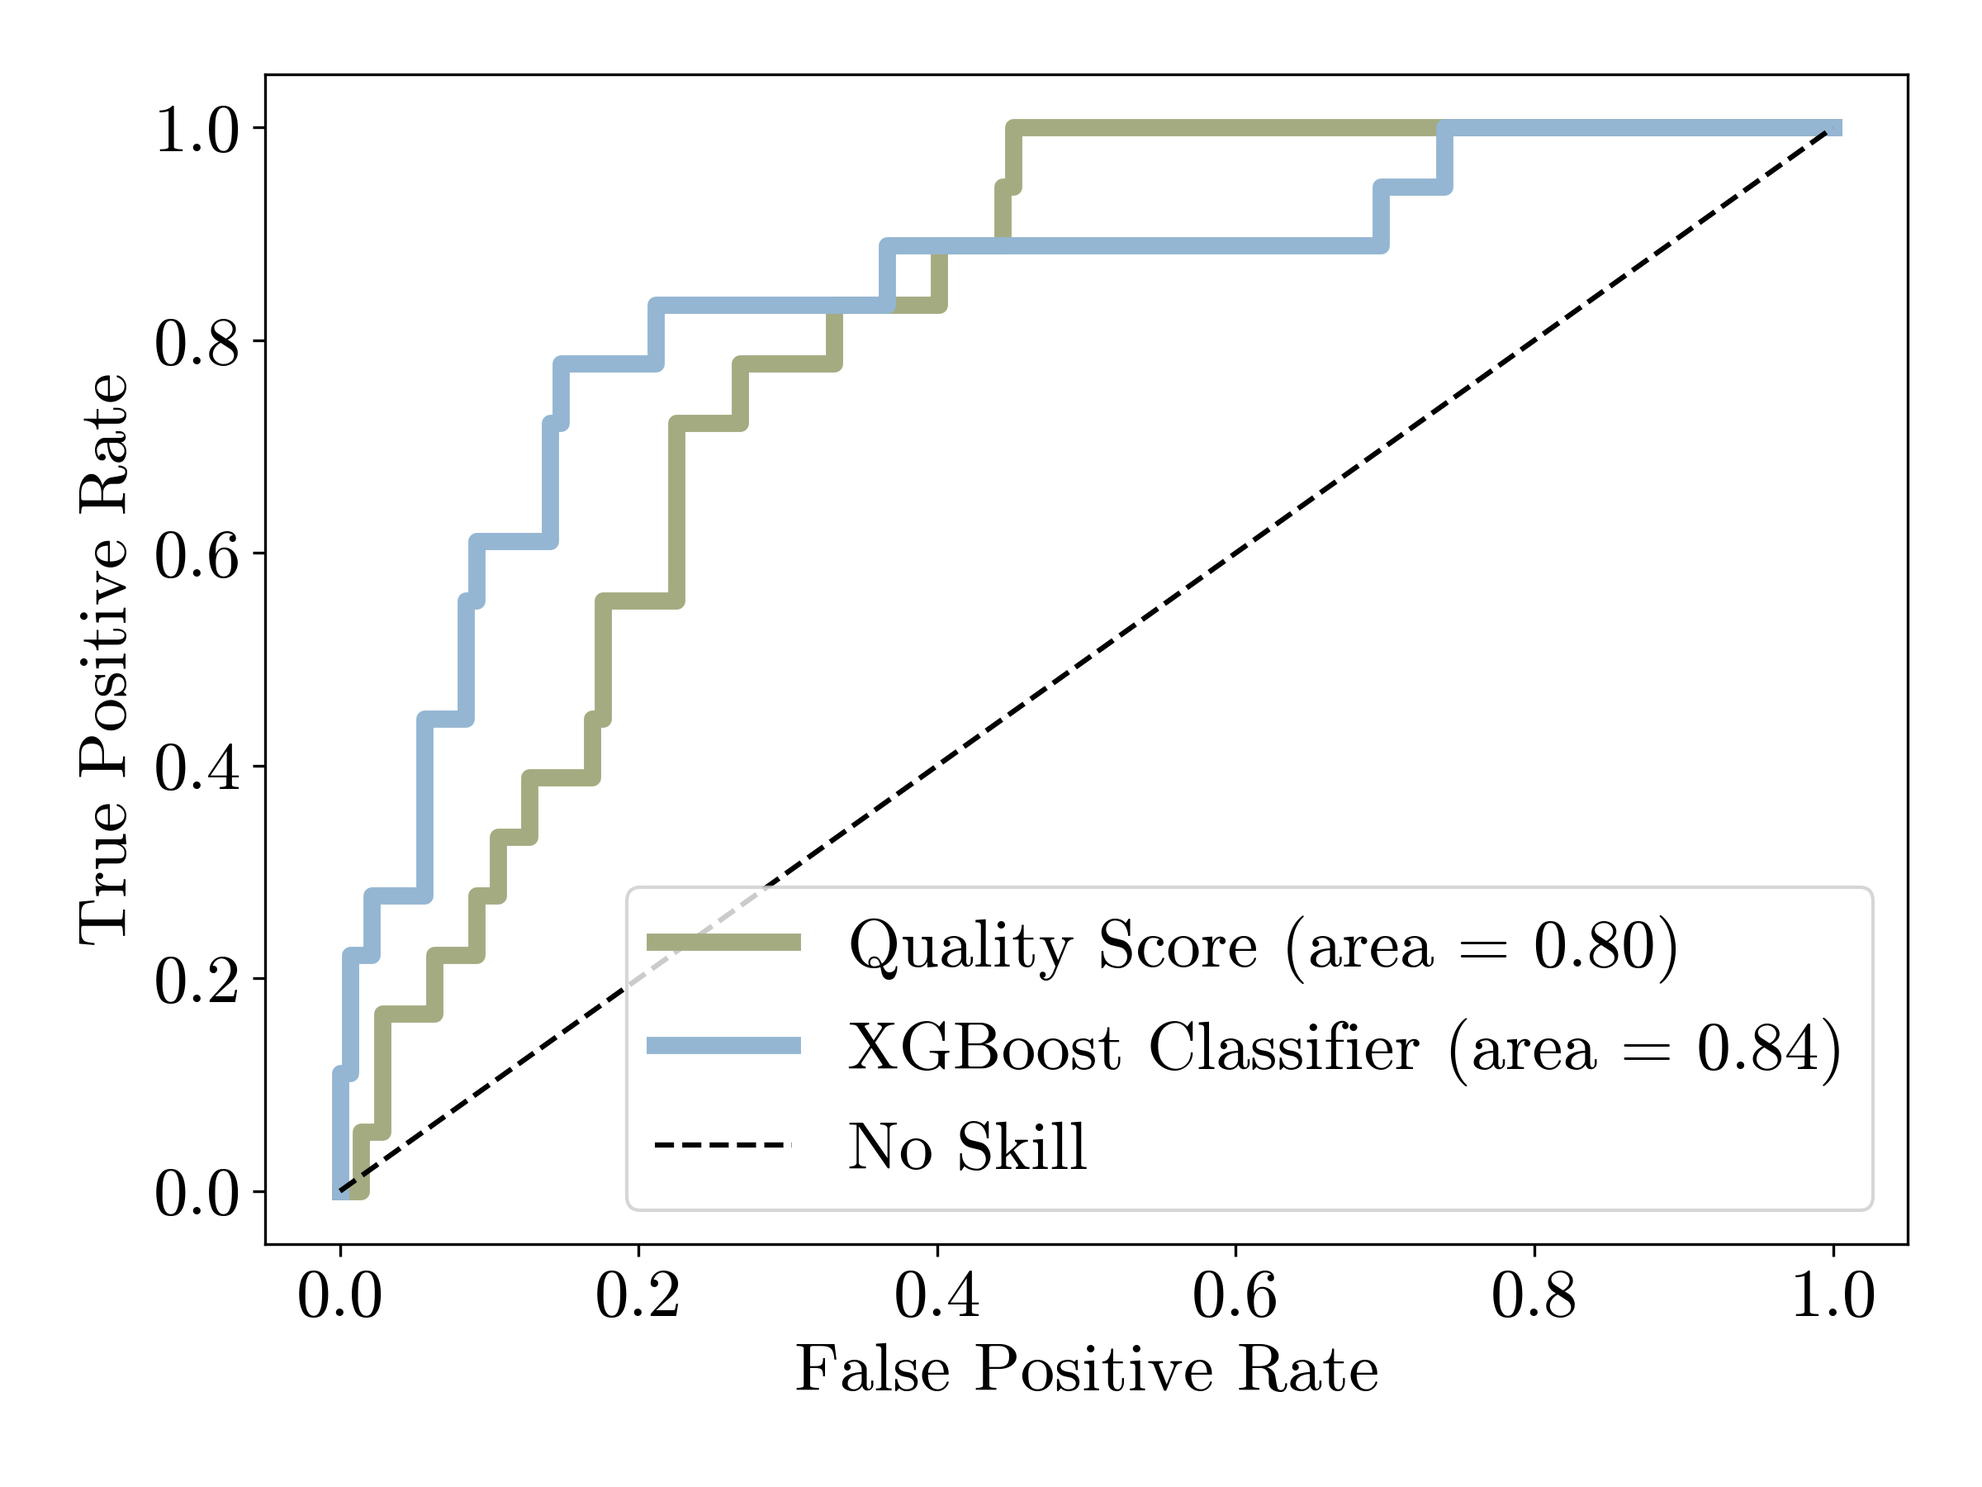
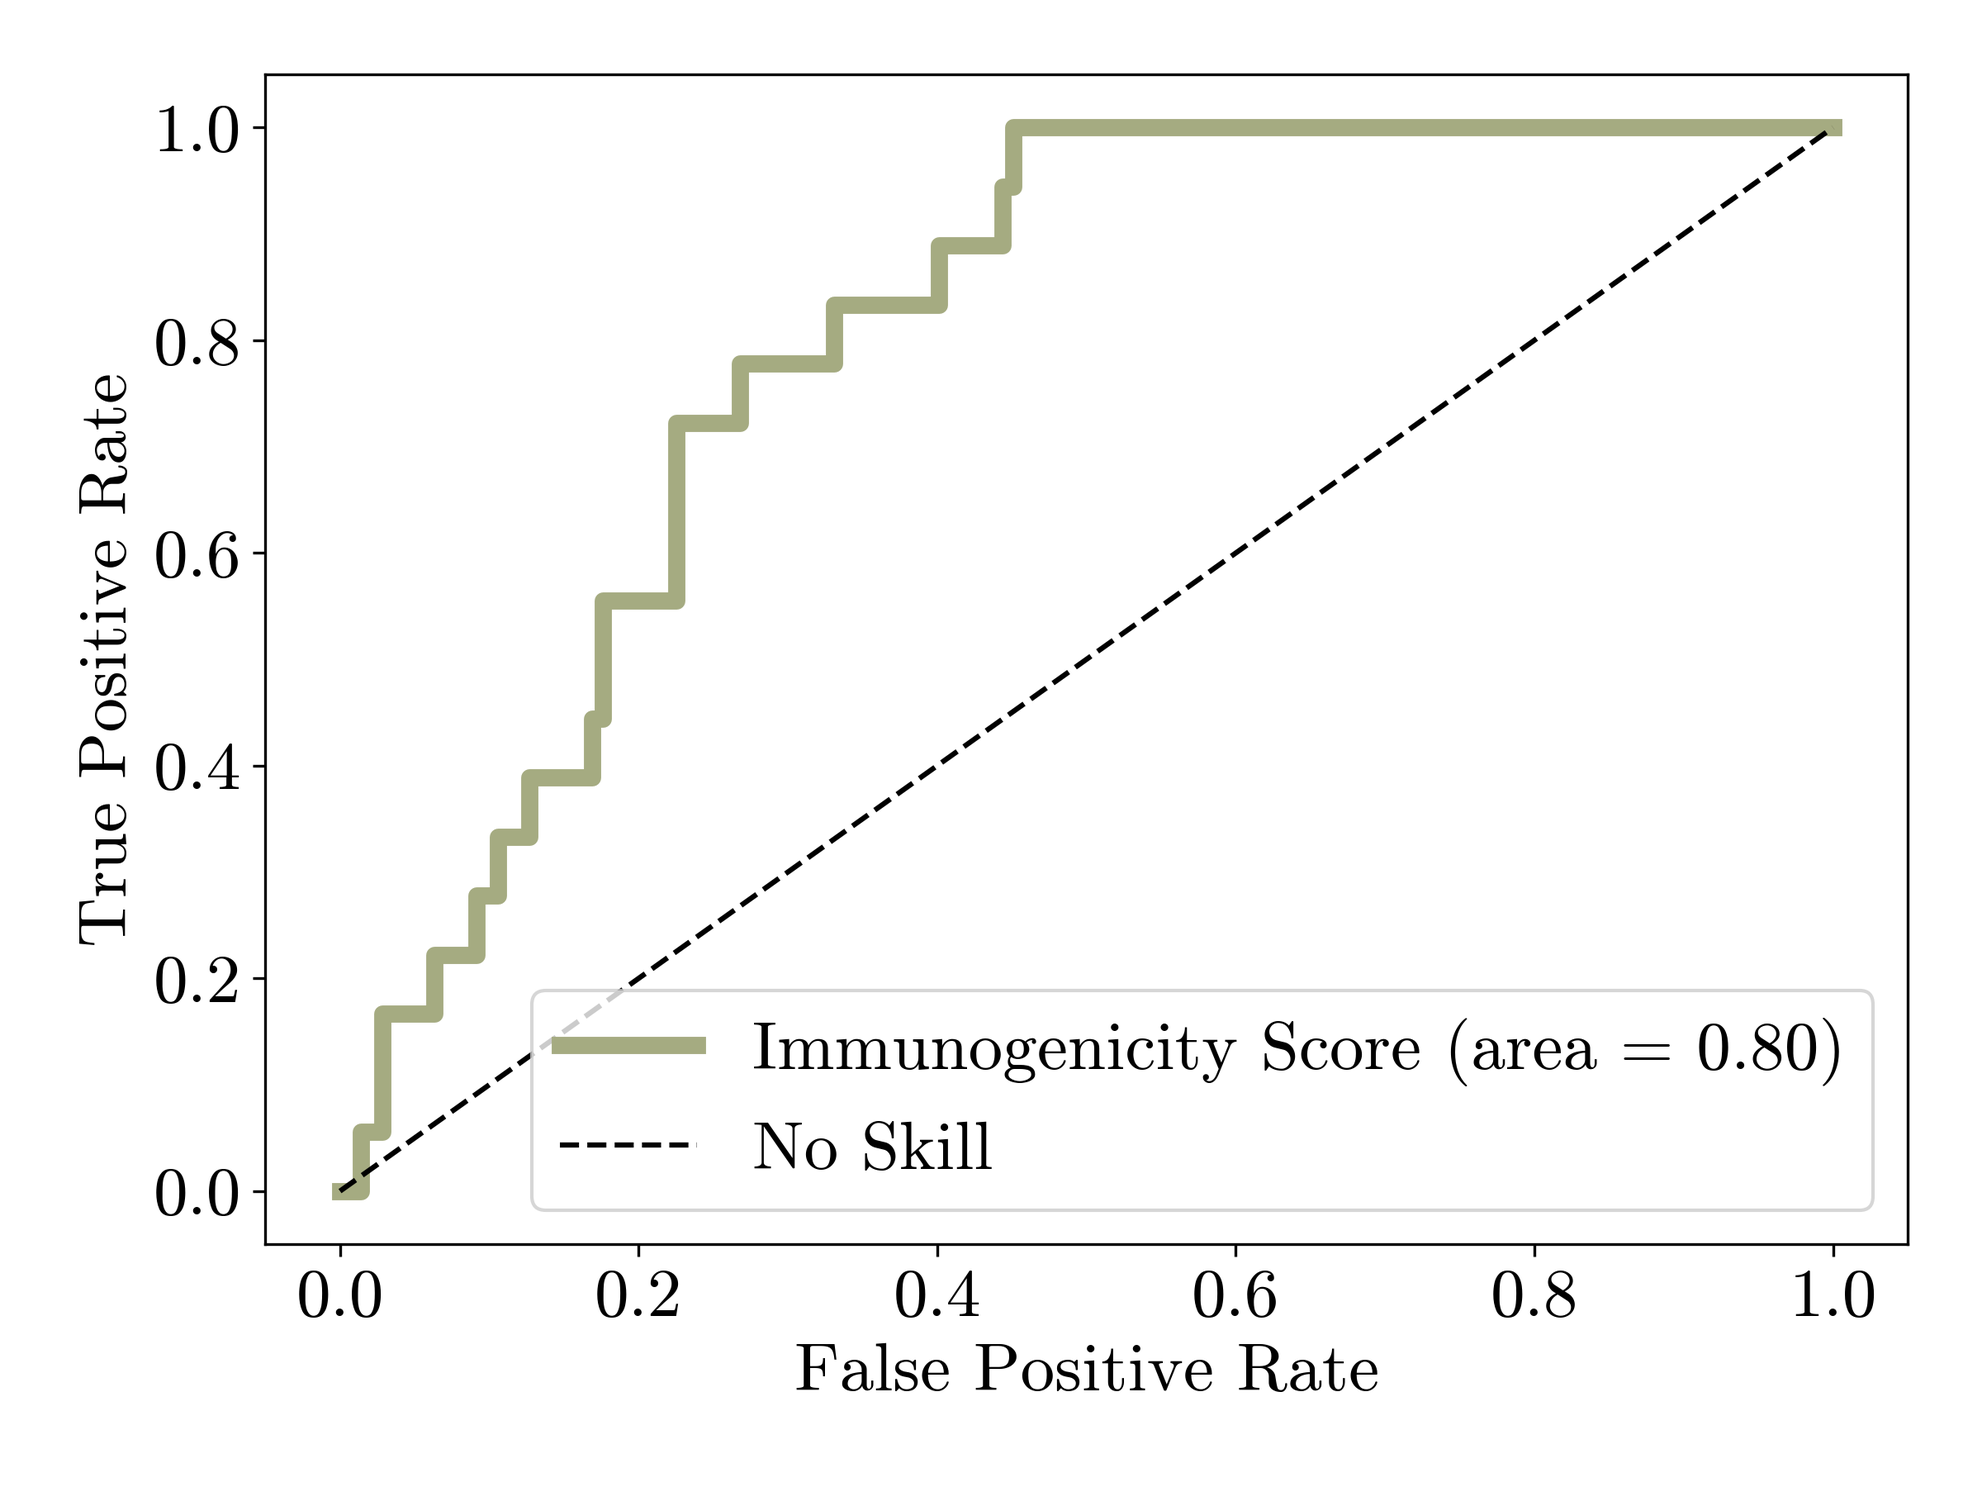
analysis rename qscore to immunogenicity score

diff --git a/prioritization/quality_score_analysis/RECIST_analysis.py b/prioritization/quality_score_analysis/RECIST_analysis.py
@@ -51,12 +51,12 @@ for method in os.listdir(directory):
         if metadata[(metadata['TUMOR'] == tumor) & (metadata['NORMAL'] == normal)]['RESPONSE'].isnull().values.any():
             continue
         if not os.path.isfile(filename):
-            output_df.append([tumor, normal, 0, 0, 0,
+            output_df.append([tumor, normal, 0, 0, 0, 0,
                 metadata[(metadata['TUMOR'] == tumor) & (metadata['NORMAL'] == normal)]['RESPONSE'].values[0]])
             continue
         weighted_rank_sum_out = pd.read_csv(filename, sep="\t", header=0)
         if weighted_rank_sum_out.shape[0] == 0:
-            output_df.append([tumor, normal, 0, 0, 0,
+            output_df.append([tumor, normal, 0, 0, 0, 0,
                 metadata[(metadata['TUMOR'] == tumor) & (metadata['NORMAL'] == normal)]['RESPONSE'].values[0]])
             continue
         features = weighted_rank_sum_out.loc[:, get_relevant_features_neofox()]
@@ -67,12 +67,13 @@ for method in os.listdir(directory):
         pred_proba = rf.xgb_model.predict_proba(features)[:, 1]
         output_df.append([tumor, normal, 
                           sum_top_x(weighted_rank_sum_out, 'qscore', topx), 
-                          weighted_rank_sum_out.shape[0],
+                          weighted_rank_sum_out[weighted_rank_sum_out['qscore'] > 0.54].shape[0],
                           sum_top_x(pd.DataFrame(pred_proba, columns=['pred']), 'pred', topx),
+                          sum(1 for pred in pred_proba if pred > 0.6),
                           metadata[(metadata['TUMOR'] == tumor) & (metadata['NORMAL'] == normal)]['RESPONSE'].values[0]])
 
 
-output_df = pd.DataFrame(output_df, columns=['TUMOR', 'NORMAL', f'QSCORE_MEDIAN_{topx}', 'LOAD', f'XGB_PRED_MEDIAN_{topx}', 'RESPONSE'])
+output_df = pd.DataFrame(output_df, columns=['TUMOR', 'NORMAL', f'QSCORE_MEDIAN_{topx}', 'LOAD_QSCORE', f'XGB_PRED_MEDIAN_{topx}', 'LOAD_XGB', 'RESPONSE'])
 output_df["RESPONSE_BINARY"] = output_df["RESPONSE"].apply(lambda x: response_map[x])
 
 recist_score = [response_map[r] for r in output_df['RESPONSE']]
@@ -97,7 +98,7 @@ print(f"QScore Wilcoxon Statistic: {stat:.4f}, P-Value: {p_value:.4f}")
 
 plt.figure(figsize=(4,6))
 gfg = sns.boxplot(data=output_df, x="RESPONSE_BINARY", y=f'QSCORE_MEDIAN_{topx}', color='#94B6D2')
-gfg.set(xlabel='RECIST score classification', ylabel=f'top {topx} median quality score')
+gfg.set(xlabel='RECIST classification', ylabel=f'top {topx} median immunogenicity score')
 labels = gfg.get_xticklabels()
 plt.ylim([0, 1])
 gfg.set_xticklabels(['NR' if l.get_text() == '0' else 'R' for l in labels])
@@ -105,42 +106,51 @@ plt.tight_layout()
 plt.savefig(f"/mnt/storage2/users/ahnelll1/master_thesis/NeoPrioProject/prioritization/quality_score_analysis/images/responder_binary_top{topx}_qscore_{step_size}_boxplot.png")
 plt.clf()
 
-# Antigen load as predictor for RECIST
+# Antigen load with QScore threshold as predictor for RECIST
 best_f1 = 0
 best_threshold = 0
 for tr in range(1, 50):
-    pred_labels = (output_df['LOAD'] > tr).astype(int)
+    pred_labels = (output_df['LOAD_QSCORE'] > tr).astype(int)
     f1 = f1_score(recist_score, pred_labels)
     if f1 > best_f1:
         best_f1 = f1
         best_threshold = tr
-print("Load Best Threshold", best_threshold)
+print("Load QScore Best Threshold", best_threshold)
 
-pred_labels = (output_df['LOAD'] > best_threshold).astype(int)
+pred_labels = (output_df['LOAD_QSCORE'] > best_threshold).astype(int)
 
 accuracy = accuracy_score(recist_score, pred_labels)
 precision = precision_score(recist_score, pred_labels)
 recall = recall_score(recist_score, pred_labels)
 f1 = f1_score(recist_score, pred_labels)
-auc = roc_auc_score(recist_score, output_df['LOAD'])
+auc = roc_auc_score(recist_score, output_df['LOAD_QSCORE'])
 
-print("Load Accuracy:", accuracy)
-print("Load Precision:", precision)
-print("Load Recall:", recall)
-print("Load F1-score:", f1)
-print("Load AUC:", auc)
+print("Load QScore Accuracy:", accuracy)
+print("Load QScore Precision:", precision)
+print("Load QScore Recall:", recall)
+print("Load QScore F1-score:", f1)
+print("Load QScore AUC:", auc)
 
-stat, p_value = wilcoxon(output_df['LOAD'], output_df['RESPONSE_BINARY'])
-print(f"Load Wilcoxon Statistic: {stat:.4f}, P-Value: {p_value:.4f}")
+stat, p_value = wilcoxon(output_df['LOAD_QSCORE'], output_df['RESPONSE_BINARY'])
+print(f"Load QScore Wilcoxon Statistic: {stat:.4f}, P-Value: {p_value:.4f}")
 
 plt.figure(figsize=(4,6))
-gfg = sns.boxplot(data=output_df, x="RESPONSE_BINARY", y="LOAD", color='#94B6D2')
+gfg = sns.boxplot(data=output_df, x="RESPONSE_BINARY", y="LOAD_QSCORE", color='#94B6D2')
 plt.ylim([0, 100])
-gfg.set(xlabel='RECIST score classification', ylabel=f'neoepitope load')
+gfg.set(xlabel='RECIST classification', ylabel=f'neoepitope load')
 labels = gfg.get_xticklabels()
 gfg.set_xticklabels(['NR' if l.get_text() == '0' else 'R' for l in labels])
 plt.tight_layout()
-plt.savefig(f"/mnt/storage2/users/ahnelll1/master_thesis/NeoPrioProject/prioritization/quality_score_analysis/images/load_responder_binary_{step_size}_boxplot.png")
+plt.savefig(f"/mnt/storage2/users/ahnelll1/master_thesis/NeoPrioProject/prioritization/quality_score_analysis/images/load_qscore_responder_binary_{step_size}_boxplot.png")
+plt.clf()
+
+plt.figure(figsize=(6,4))
+sns.histplot(output_df[output_df['RESPONSE_BINARY'] == 0]['LOAD_QSCORE'], kde=True, bins=50, color="#94B6D2", binwidth=2, label="NR")
+sns.histplot(output_df[output_df['RESPONSE_BINARY'] == 1]['LOAD_QSCORE'], kde=True, bins=50, color="#A5AB81", binwidth=2, label="R")
+plt.xlim([0,100])
+plt.legend()
+plt.tight_layout()
+plt.savefig(f"/mnt/storage2/users/ahnelll1/master_thesis/NeoPrioProject/prioritization/quality_score_analysis/images/load_qscore_responder_binary_{step_size}_hist.png")
 plt.clf()
 
 # XGBoost prediction as predictor for RECIST
@@ -163,9 +173,56 @@ print(f"XGB Wilcoxon Statistic: {stat:.4f}, P-Value: {p_value:.4f}")
 
 plt.figure(figsize=(4,6))
 gfg = sns.boxplot(data=output_df, x="RESPONSE_BINARY", y=f'XGB_PRED_MEDIAN_{topx}', color='#94B6D2')
-gfg.set(xlabel='RECIST score classification', ylabel=f'top {topx} median XGBoost pred. prob.')
+gfg.set(xlabel='RECIST classification', ylabel=f'top {topx} median XGBoost pred. prob.')
 labels = gfg.get_xticklabels()
 gfg.set_xticklabels(['NR' if l.get_text() == '0' else 'R' for l in labels])
 plt.tight_layout()
 plt.savefig(f"/mnt/storage2/users/ahnelll1/master_thesis/NeoPrioProject/prioritization/quality_score_analysis/images/xgb_responder_binary_top{topx}_qscore_{step_size}_boxplot")
 plt.close()
+
+# Antigen load with XGBoost prediction prob threshold as predictor for RECIST
+best_f1 = 0
+best_threshold = 0
+for tr in range(1, 50):
+    pred_labels = (output_df['LOAD_XGB'] > tr).astype(int)
+    f1 = f1_score(recist_score, pred_labels)
+    if f1 > best_f1:
+        best_f1 = f1
+        best_threshold = tr
+print("Load XGB Best Threshold", best_threshold)
+best_threshold = 10
+pred_labels = (output_df['LOAD_XGB'] > best_threshold).astype(int)
+
+accuracy = accuracy_score(recist_score, pred_labels)
+precision = precision_score(recist_score, pred_labels)
+recall = recall_score(recist_score, pred_labels)
+f1 = f1_score(recist_score, pred_labels)
+auc = roc_auc_score(recist_score, output_df['LOAD_XGB'])
+
+print("Load XGB Accuracy:", accuracy)
+print("Load XGB Precision:", precision)
+print("Load XGB Recall:", recall)
+print("Load XGB F1-score:", f1)
+print("Load XGB AUC:", auc)
+
+stat, p_value = wilcoxon(output_df['LOAD_XGB'], output_df['RESPONSE_BINARY'])
+print(f"Load XGB Wilcoxon Statistic: {stat:.4f}, P-Value: {p_value:.4f}")
+
+plt.figure(figsize=(4,6))
+gfg = sns.boxplot(data=output_df, x="RESPONSE_BINARY", y="LOAD_XGB", color='#94B6D2')
+plt.ylim([0, 100])
+gfg.set(xlabel='RECIST classification', ylabel=f'neoepitope load')
+labels = gfg.get_xticklabels()
+gfg.set_xticklabels(['NR' if l.get_text() == '0' else 'R' for l in labels])
+plt.tight_layout()
+plt.savefig(f"/mnt/storage2/users/ahnelll1/master_thesis/NeoPrioProject/prioritization/quality_score_analysis/images/load_xgb_responder_binary_{step_size}_boxplot.png")
+plt.clf()
+
+plt.figure(figsize=(6,4))
+sns.histplot(output_df[output_df['RESPONSE_BINARY'] == 0]['LOAD_XGB'], kde=True, bins=50, color="#94B6D2", binwidth=2, label="NR")
+sns.histplot(output_df[output_df['RESPONSE_BINARY'] == 1]['LOAD_XGB'], kde=True, bins=50, color="#A5AB81", binwidth=2, label="R")
+plt.xlim([0,100])
+plt.legend()
+plt.tight_layout()
+plt.savefig(f"/mnt/storage2/users/ahnelll1/master_thesis/NeoPrioProject/prioritization/quality_score_analysis/images/load_xgb_responder_binary_{step_size}_hist.png")
+plt.clf()

diff --git a/prioritization/quality_score_analysis/NEPdb_analysis.py b/prioritization/quality_score_analysis/NEPdb_analysis.py
@@ -75,12 +75,12 @@ print("F1-score RS QScore:", f1)
 print("AUC RS QScore:", auc)
 
 cm = confusion_matrix(true_labels, pred_rs_labels, labels=[0, 1])
-plt.figure(figsize=(10, 7))
-sns.heatmap(cm, annot=True, fmt='d', cmap='Blues', xticklabels=[0, 1], yticklabels=[0, 1])
+cm_df = pd.DataFrame(cm, columns=['N', 'P'], index=['N', 'P'])
+plt.figure(figsize=(6, 6))
+sns.heatmap(cm_df, annot=True, fmt='d', cmap=sns.light_palette("#7BA79D", as_cmap=True))
 plt.xlabel('Predicted Label')
 plt.ylabel('True Label')
-plt.title('Confusion Matrix for Rank Sum Quality Score Classifier')
-plt.savefig(f"/mnt/storage2/users/ahnelll1/master_thesis/NeoPrioProject/prioritization/quality_score_analysis/images/CM_RS_{step_size}.png")
+plt.savefig(f"/mnt/storage2/users/ahnelll1/master_thesis/NeoPrioProject/prioritization/quality_score_analysis/images/CM_RS_{step_size}.png", dpi=300)
 plt.close()
 
 # rank sum qscore vs prediction 
@@ -92,8 +92,8 @@ fpr2, tpr2, _ = roc_curve(comparison_df["response"], comparison_df["pred_proba"]
 auc2 = roc_auc_score(comparison_df["response"], comparison_df["pred_proba"])
 
 plt.figure(figsize=(8, 6))
-plt.plot(fpr1, tpr1, label=f'Quality Score (area = {auc1:.2f})', color="#A5AB81", linewidth=5)
-plt.plot(fpr2, tpr2, label=f'XGBoost Classifier (area = {auc2:.2f})', color="#94B6D2", linewidth=5)
+plt.plot(fpr1, tpr1, label=f'Immunogenicity Score (area = {auc1:.2f})', color="#A5AB81", linewidth=5)
+#plt.plot(fpr2, tpr2, label=f'XGBoost Classifier (area = {auc2:.2f})', color="#94B6D2", linewidth=5)
 plt.plot([0, 1], [0, 1], 'k--', label='No Skill')
 plt.xlabel('False Positive Rate')
 plt.ylabel('True Positive Rate')
@@ -139,12 +139,12 @@ print(f"Spearman Correlation: {correlation}")
 
 # Scatter plot
 plt.figure(figsize=(6, 6))
-plt.scatter(comparison_df["qscore"], comparison_df["pred_proba"], alpha=0.5)
-plt.plot([min(comparison_df["qscore"]), max(comparison_df["qscore"])], [min(comparison_df["qscore"]), max(comparison_df["qscore"])], color='red', linestyle='--')  # y=x line
-plt.xlabel("Rank Sum Quality Score")
+plt.scatter(comparison_df["qscore"], comparison_df["pred_proba"], alpha=1, s=10, marker='o', c='#94B6D2', linewidth=0)
+plt.plot([min(comparison_df["qscore"]), max(comparison_df["qscore"])], [min(comparison_df["qscore"]), max(comparison_df["qscore"])], color='#DD8047', linestyle='--')  # y=x line
+plt.xlabel("Immunogenicity Score")
 plt.ylabel("XGBoost Prediction Probability")
-plt.title(f"Scatter Plot (Spearman r = {correlation.statistic:.2f})")
-plt.savefig(f"/mnt/storage2/users/ahnelll1/master_thesis/NeoPrioProject/prioritization/quality_score_analysis/images/qscore_xgb_NEPdb_scatter_{step_size}.png")
+plt.tight_layout()
+plt.savefig(f"/mnt/storage2/users/ahnelll1/master_thesis/NeoPrioProject/prioritization/quality_score_analysis/images/qscore_xgb_NEPdb_scatter_{step_size}.png", dpi=300)
 
 # Bland-Altman Plot
 mean_pred = (comparison_df["qscore"] + comparison_df["pred_proba"]) / 2

diff --git a/prioritization/feature_analysis/features_neofox_plots.py b/prioritization/feature_analysis/features_neofox_plots.py
@@ -3,6 +3,8 @@ import matplotlib.pyplot as plt
 from matplotlib import gridspec
 import numpy as np
 import seaborn as sns
+import sys
+sys.path.append(sys.path[0] + '/../..')
 from helpers.get_data import get_feature_data, get_relevant_features_neofox
 import sys
 from optparse import OptionParser
@@ -75,20 +77,20 @@ def main(argv):
         else:
             feature_df_hist = feature_df
         sns.histplot(feature_df_hist, kde=True, bins=50, color="#94B6D2")
-        for q, c in zip([0.25, 0.5, 0.75], ['#b16639', '#dd8047', '#e4996c']):
+        for q in [0.1, 0.2, 0.3, 0.4, 0.5, 0.6, 0.7, 0.8, 0.9]:
             if feature['quantile'] == 'upper':
                 q = 1-q
             quant = np.quantile(feature_df, q)
-            plt.axvline(x = quant, color = c, label = str(q*100) + '% = ' + str(round(quant*100)/100), linewidth=4) 
+            plt.axvline(x = quant, color = '#e4996c', label = str(q*100) + '% = ' + str(round(quant*100)/100), linewidth=4) 
         if options.use_interval and 'interval' in feature:
             plt.xlim(feature['interval'])
         plt.ylabel("#neoepitopes")
         plt.xlabel(None)
-        plt.legend()
+        #plt.legend()
 
         plt.tight_layout()
         
-        plt.savefig(os.path.join(output_dir, "histograms", feature['name'] + '_histogram_' + ('interval_' if options.use_interval and 'interval' in feature else '') + '_'.join(cohorts) + ('_prefilter' if prefilter else '') + '.png'), bbox_inches='tight', dpi=100)
+        plt.savefig(os.path.join(output_dir, "histograms", feature['name'] + '_histogram10_' + ('interval_' if options.use_interval and 'interval' in feature else '') + '_'.join(cohorts) + ('_prefilter' if prefilter else '') + '.png'), bbox_inches='tight', dpi=100)
         plt.close()
 if __name__ == "__main__":
     main(sys.argv)

diff --git a/prioritization/quality_score_analysis/baseline_data_analysis.py b/prioritization/quality_score_analysis/baseline_data_analysis.py
@@ -9,7 +9,7 @@ from sklearn.metrics import mean_squared_error
 
 from scipy.stats import spearmanr
 
-sys.path.append(sys.path[0] + '/..')
+sys.path.append(sys.path[0] + '/../..')
 from helpers.get_data import get_relevant_features_neofox
 from prioritization.weight_calculation.xgboost_classifier_model import XGBoostClassifierModel
 
@@ -64,12 +64,12 @@ print("Mean Square Error", mse)
 
 # Scatter plot
 plt.figure(figsize=(6, 6))
-plt.scatter(qscores, pred_proba, alpha=0.5)
-plt.plot([min(qscores), max(qscores)], [min(qscores), max(qscores)], color='red', linestyle='--')  # y=x line
-plt.xlabel("Rank Sum Quality Score")
+plt.scatter(qscores, pred_proba, alpha=0.5, s=5, marker='o', c='#94B6D2', linewidth=0)
+plt.plot([min(qscores), max(qscores)], [min(qscores), max(qscores)], color='#DD8047', linestyle='--')  # y=x line
+plt.xlabel("Immunogenicity Score")
 plt.ylabel("XGBoost Prediction Probability")
-plt.title(f"Scatter Plot (Pearson r = {pearson_corr.statistic:.2f})")
-plt.savefig(f"/mnt/storage2/users/ahnelll1/master_thesis/NeoPrioProject/prioritization/quality_score_analysis/images/qscore_xgb_scatter_{step_size}.png")
+plt.tight_layout()
+plt.savefig(f"/mnt/storage2/users/ahnelll1/master_thesis/NeoPrioProject/prioritization/quality_score_analysis/images/qscore_xgb_scatter_{step_size}.png", dpi = 300)
 
 # Bland-Altman Plot
 mean_pred = (qscores + pred_proba) / 2

diff --git a/prioritization/weight_calculation/xgboost_classifier_model.py b/prioritization/weight_calculation/xgboost_classifier_model.py
@@ -16,7 +16,7 @@ from imblearn.over_sampling import RandomOverSampler, SMOTE
 
 sys.path.append(sys.path[0] + '/../..')
 from helpers.get_data import get_relevant_features_neofox
-from data.get_data import get_train_data
+from prioritization.weight_calculation.data.get_data import get_train_data
 
 rc('font', **{'family': 'serif', 'serif': ['cmr10'], 'size': 20})
 rcParams['axes.unicode_minus'] = False
@@ -289,9 +289,9 @@ class XGBoostClassifierModel:
 
 if __name__ == '__main__':
     rf = XGBoostClassifierModel()
-    rf.perform_parameter_grid_search()
+    #rf.perform_parameter_grid_search()
     rf.perform_over_under_sampling_model_selection()
-    rf.get_classification_threshold()
+    #rf.get_classification_threshold()
     rf.calc_test_statistics()
-    rf.save_feature_importances()
-    rf.save_output()
+    #rf.save_feature_importances()
+    #rf.save_output()

diff --git a/prioritization/feature_analysis/feature_comparison_correlations.py b/prioritization/feature_analysis/feature_comparison_correlations.py
@@ -1,6 +1,7 @@
 import os
 import pandas as pd
 import itertools
+sys.path.append(sys.path[0] + '/../..')
 from helpers.get_data import get_feature_data, get_relevant_features
 import sys
 from optparse import OptionParser
